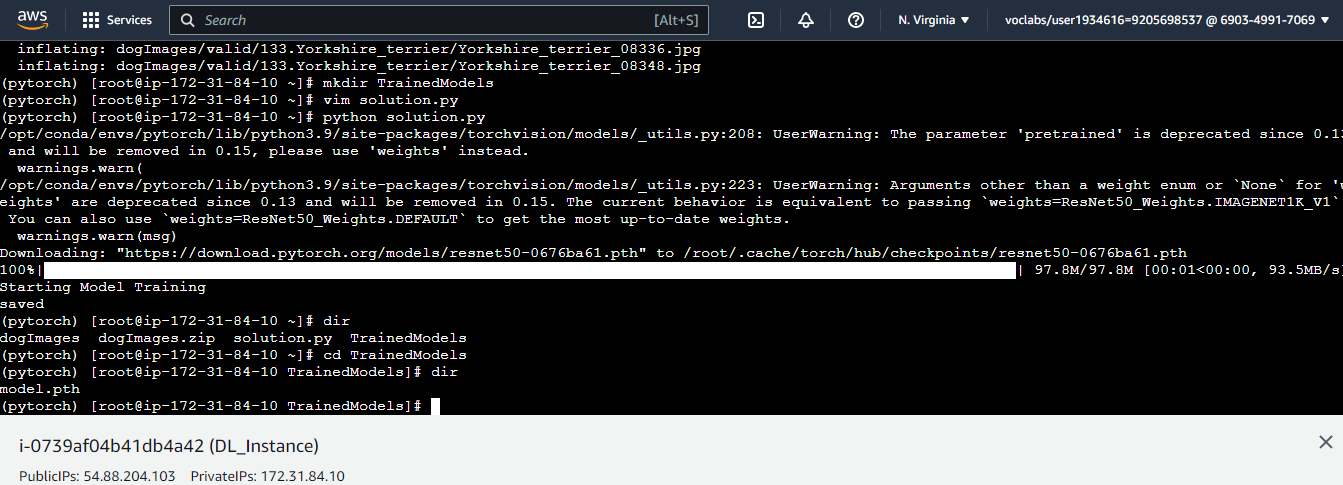
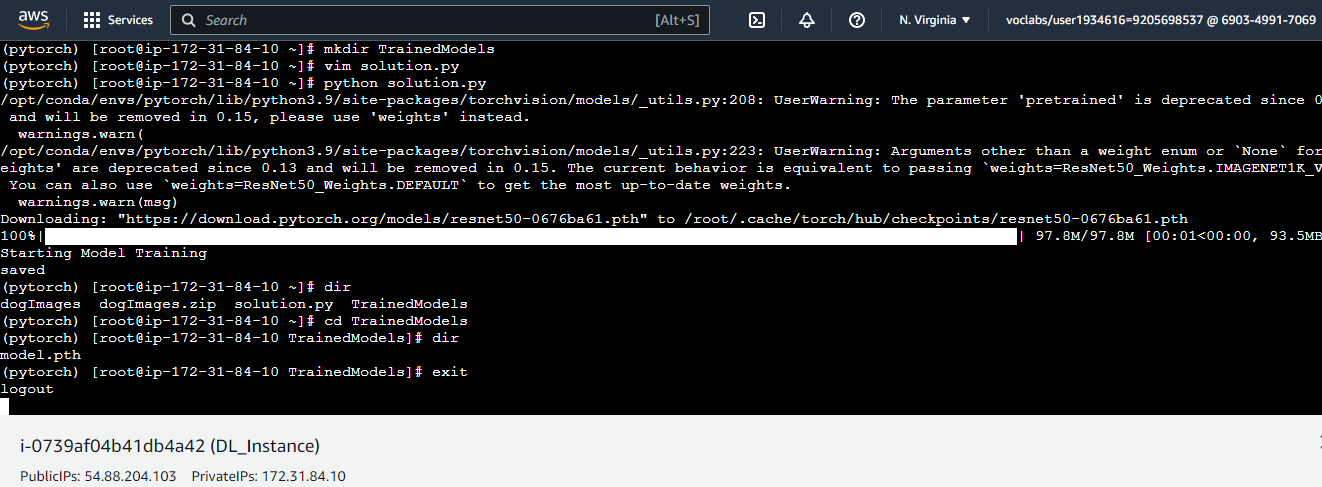
EBS based Instance

diff --git a/README.md b/README.md
@@ -64,6 +64,9 @@ estimator.fit({"training": "s3://sagemaker-bucket-05-11-2022/"}, wait=False)
 
 ![EC2 Instance running](screenshots/14_EC2_Instance_running.png)
 
+![EBS based Instance](screenshots/14_1_EBS_Based_Instance.png)
+This is an EBS based instance
+
 ![Set up](screenshots/15_SomeSetup_Process.png)
 
 ```batch
